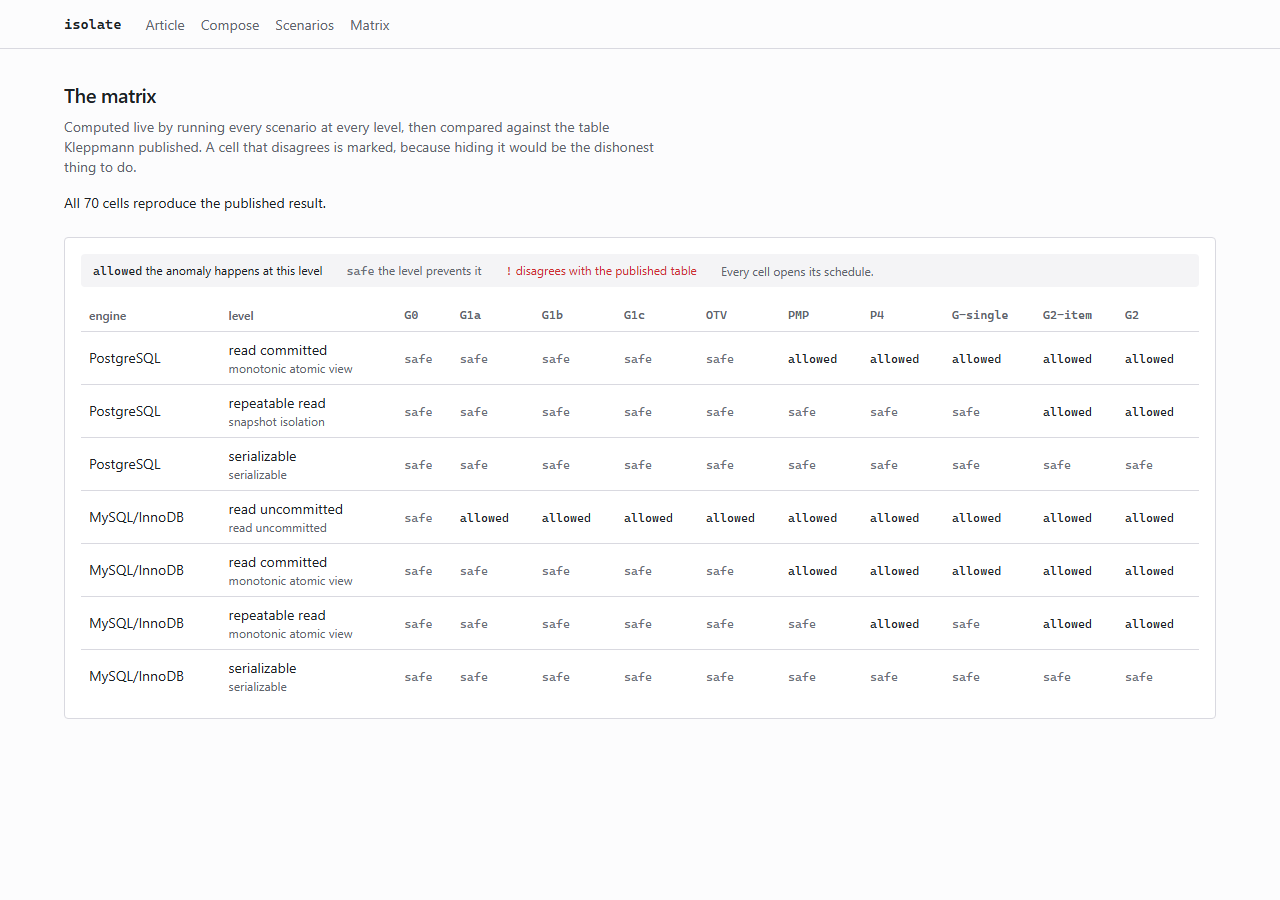
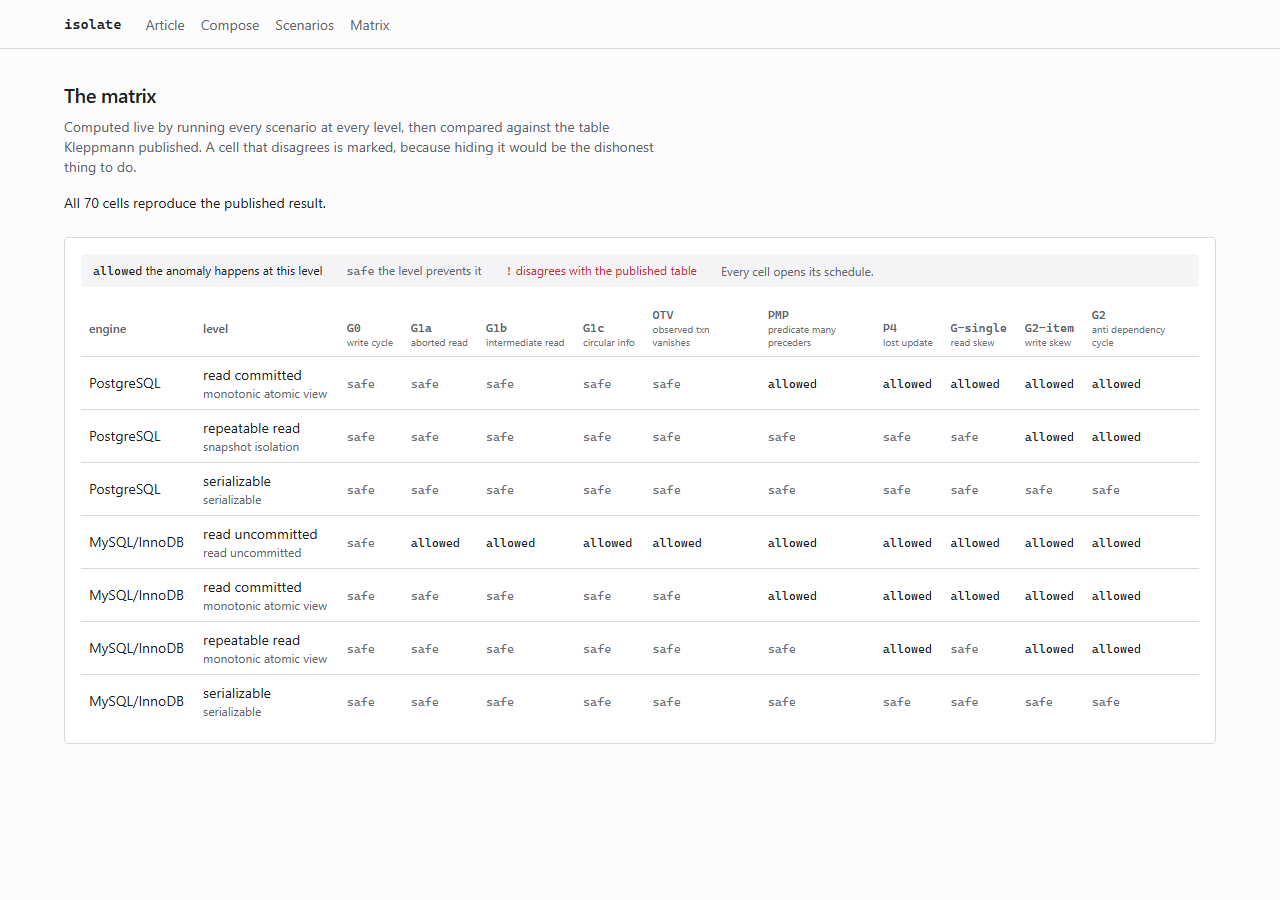
docs: show the article in the readme

diff --git a/README.md b/README.md
@@ -49,7 +49,7 @@ ten anomalies, run on demand rather than transcribed. A cell that disagrees with
 table is marked in red instead of hidden, and every cell opens the schedule that produced it.
 
 <p align="center">
-  <img src="frontend/public/readme/matrix.png" width="880" alt="The matrix page. A legend explains allowed, safe, and the disagreement marker. Seven rows: PostgreSQL at read committed, repeatable read and serializable, then MySQL/InnoDB at four levels, each row naming the isolation it actually provides underneath the label. All 70 cells reproduce the published result.">
+  <img src="frontend/public/readme/matrix.png" width="880" alt="The matrix page. A legend explains allowed, safe, and the disagreement marker. Ten anomaly columns, each headed by its G-code and its plain name: G0 write cycle through P4 lost update to G2 anti dependency cycle. Seven rows: PostgreSQL at read committed, repeatable read and serializable, then MySQL/InnoDB at four levels, each row naming the isolation it actually provides underneath the label. PostgreSQL repeatable read reads safe under P4 while MySQL repeatable read reads allowed. All 70 cells reproduce the published result.">
 </p>
 
 **The labels disagree with the behaviour, and it shows.** PostgreSQL's repeatable read is snapshot
@@ -63,6 +63,14 @@ protanopia rather than picked by eye.
 
 **Reorder an operation and watch the cycle appear or vanish.** The schedule is editable in place,
 and it round trips through the URL so a composed one can be shared.
+
+**An article that argues with a working engine underneath it.** Six sections, each carrying a live
+figure the reader drives. Nothing is bound to scroll position: every figure owns its own schedule
+and step index, and the control is always a button the reader presses.
+
+<p align="center">
+  <img src="frontend/public/readme/article.png" width="880" alt="The article page. A 32px heading reads Two transactions, one row, over serif body text at 19px. The section below, The simplest interference, names T1 in indigo and T2 in green inline in the prose, with the operation R1(1) set in mono. A figure begins underneath, showing both transactions at read committed with a seven step timeline at step 1 of 7.">
+</p>
 
 ## Tech
 
